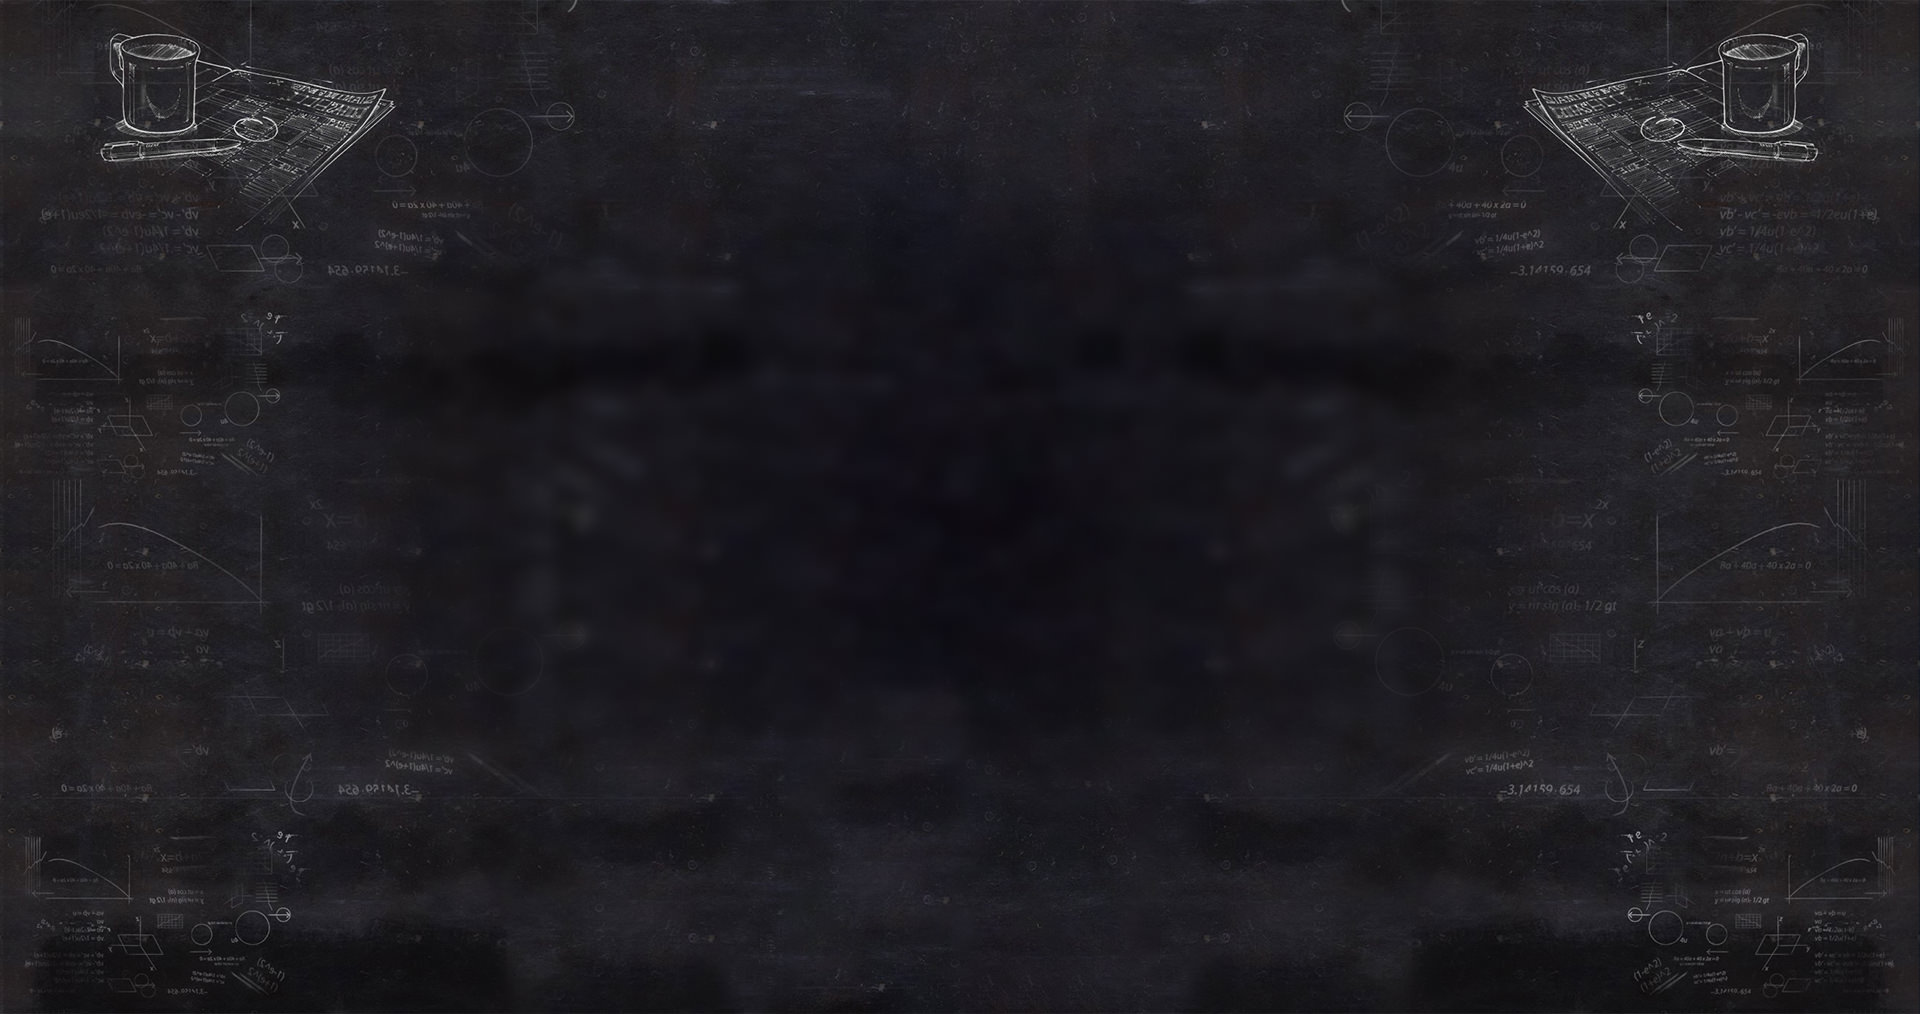
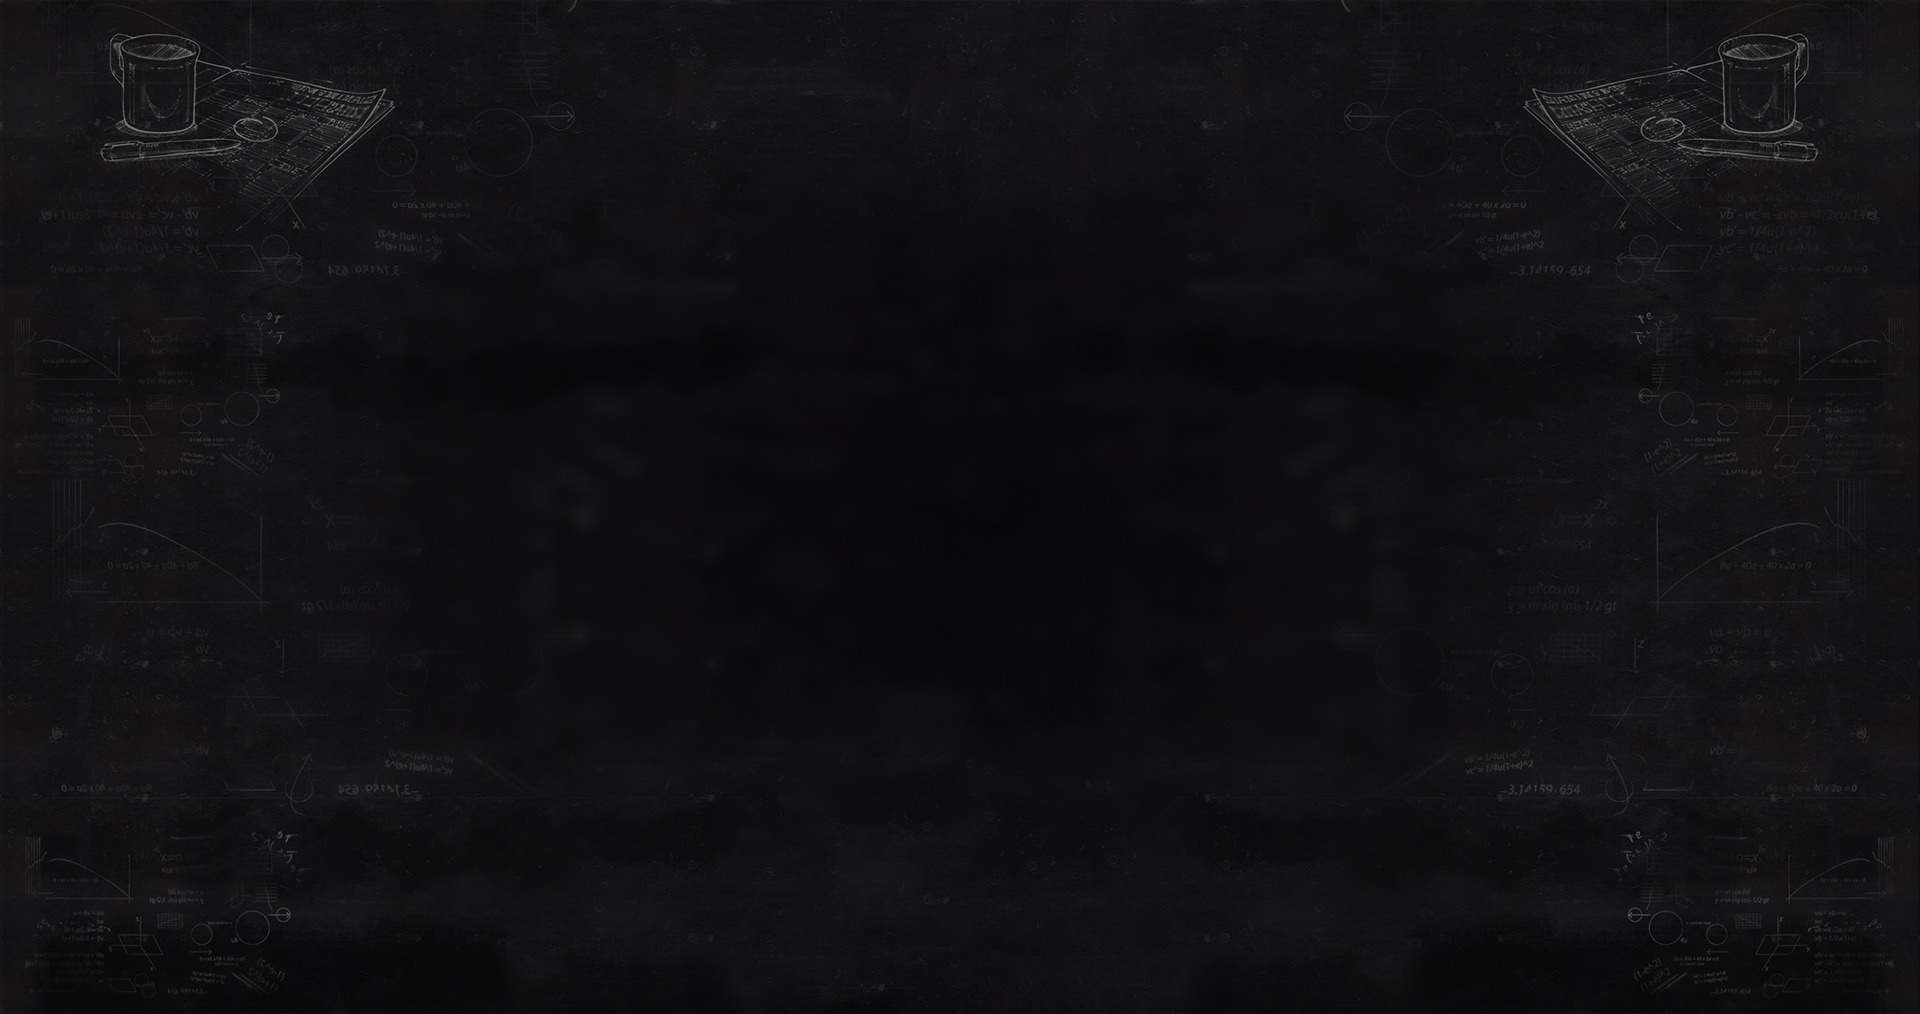
1

diff --git a/js/music.js b/js/music.js
@@ -25,12 +25,6 @@ window.onload = function () {
 	 	xunhuan = document.getElementById('xunhuan'); // 循环按钮
 	 	currentSrcIndex = 0;
 
-	 	// 网易云音乐模块
-		var keyword = document.getElementById('keyword'); // 搜索歌名
-		var searchBtn = document.getElementById('search-btn'); // 搜索按钮
-		var result = document.getElementById('result'); // 结果区
-		var toPlay = document.getElementById('to-play'); // 立即播放按钮
-
 
 	// 是否循环播放 
 	audio.loop = false;
@@ -211,36 +205,6 @@ window.onload = function () {
 		}
 
 	});
-
-	// 搜索按钮
-	searchBtn.addEventListener('click', function () {
-		var value = keyword.value;
-		if (!value) {
-			alert('关键词不能为空');
-			return;
-		}
-		var url = "http://s.music.163.com/search/get/";
-		var data = {
-			"type": 1,
-			"limit": 1,
-			"s": value,
-			"callback": "jsonpcallback"
-		};
-		var buffer = [];
-		for (var key in data) {
-			buffer.push(key + '=' + encodeURIComponent(data[key]));
-		}
-		var fullpath = url + '?' + buffer.join('&');
-		CreateScript(fullpath);
-	});
-
-	function CreateScript (src) {
-		var el = document.createElement('script');
-		el.src = src;
-		el.async = true;
-		el.defer = true;
-		document.body.appendChild(el);
-	};
 	
 };
 

diff --git a/css/music.css b/css/music.css
@@ -22,11 +22,11 @@ a {
 	width: 320px;
 	height: 470px;
 	float: left;
-	background: #232323d4;
+	background: rgba(35, 35, 35, 0.8);
 	color: #fff;
 	background-size: cover;
 	border-radius: 10px;
-	box-shadow: 1px 1px 6px 5px #00000066;
+	box-shadow: 1px 1px 6px 5px rgba(0, 0, 0, 0.4);
 }
 .header {
 	height: 60px;
@@ -189,11 +189,11 @@ a {
 	margin-right: 17px;
 	float: left;
 	color: #ccc;
-	background-color: #25252554;
-	text-shadow: 5px 1px 11px #0000003d;
-    margin-left: 20px;
-    margin-bottom: 20px;
-    box-shadow: 3px 3px 11px 6px #0000003d;
+	background-color: rgba(37, 37, 37, 0.33);
+	text-shadow: 5px 1px 11px rgba(0, 0, 0, 0.24);
+	margin-left: 20px;
+	margin-bottom: 20px;
+	box-shadow: 3px 3px 11px 6px rgba(0, 0, 0, 0.24);
 }
 .music-list .title {
 	height: 40px;
@@ -212,9 +212,9 @@ a {
 
 /* 渐变质感背景 */
 .blueHour {
-  background: #2a2a2aa3;
   background-image: url("../img/background.jpg");
-  background-blend-mode: multiply, screen; }
+}
+
 
 @keyframes xuanzhuan {
 	0% {
